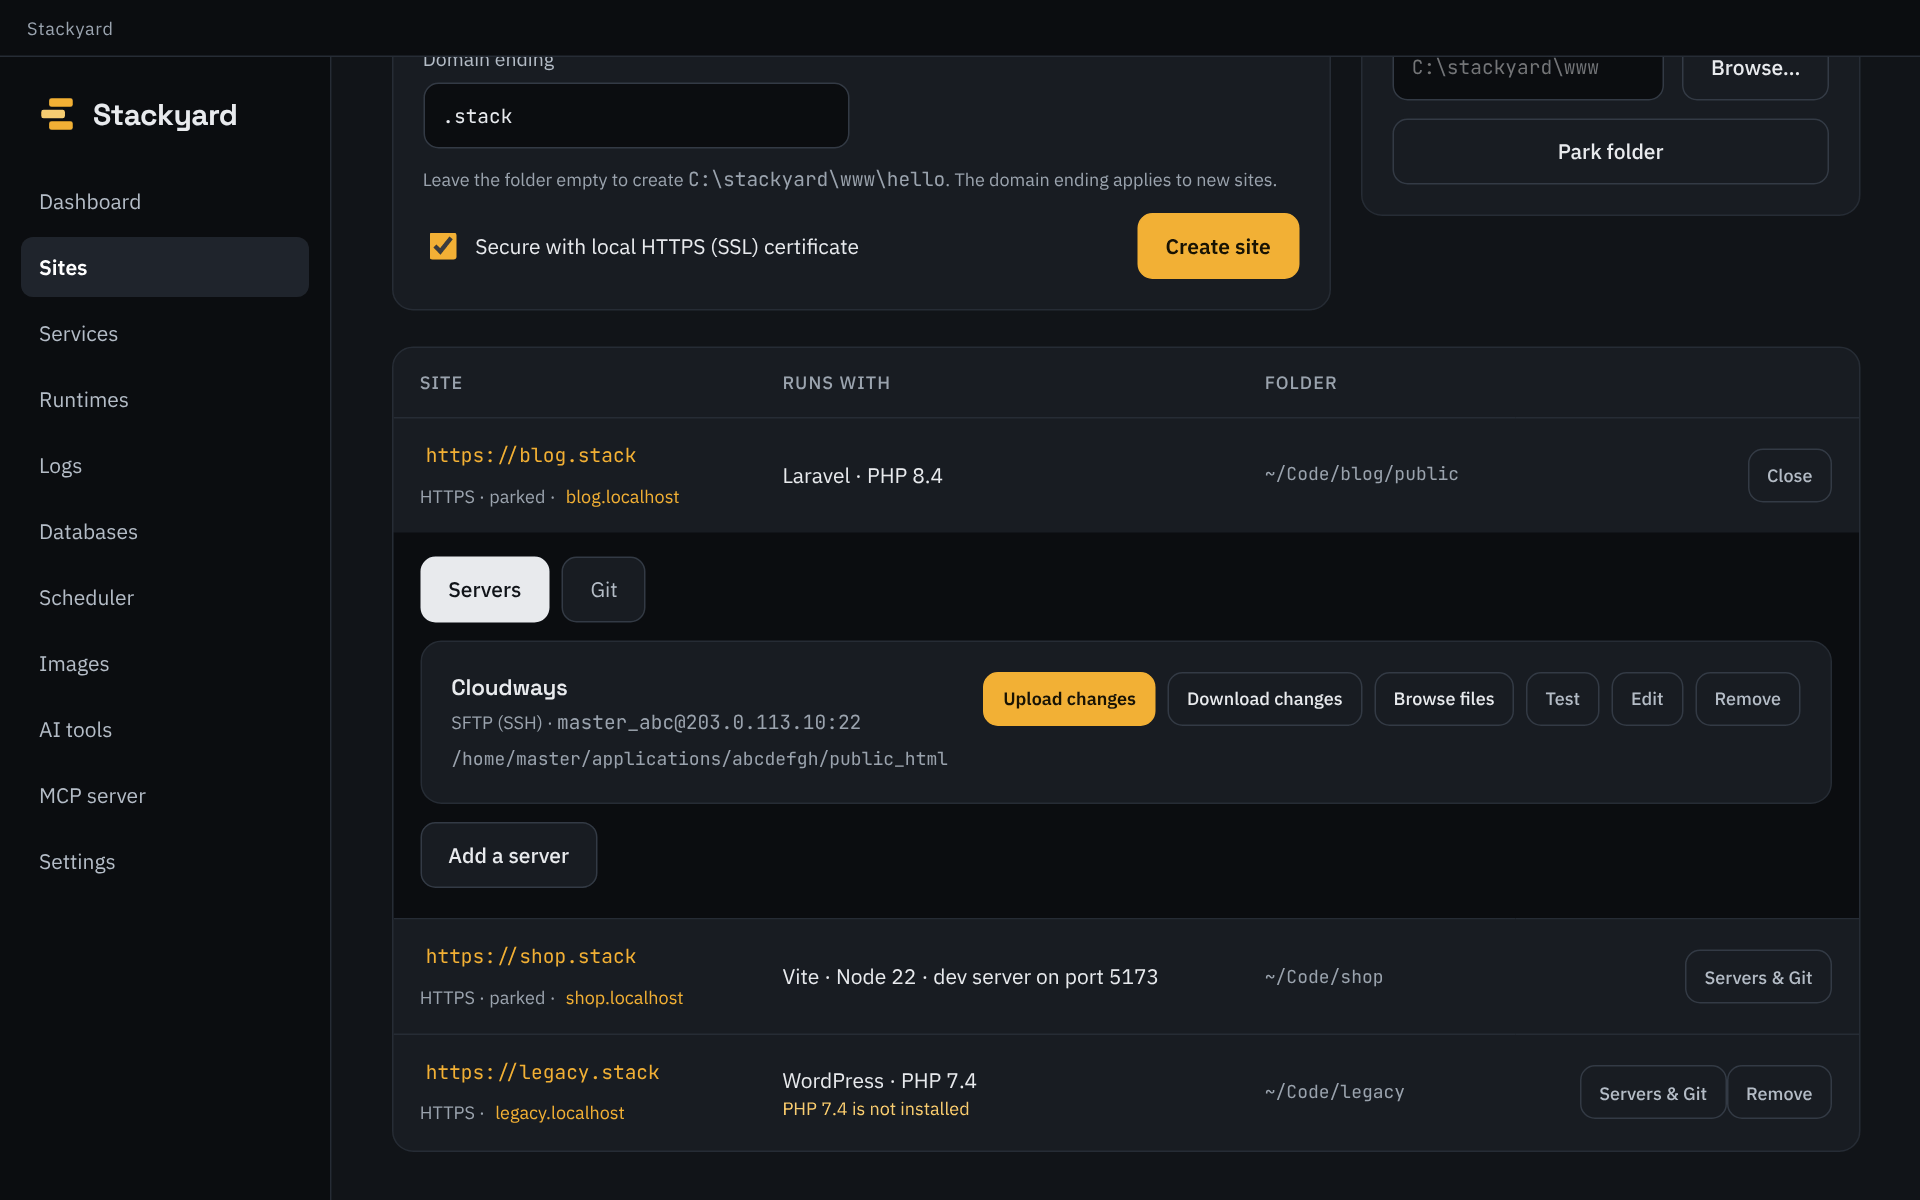
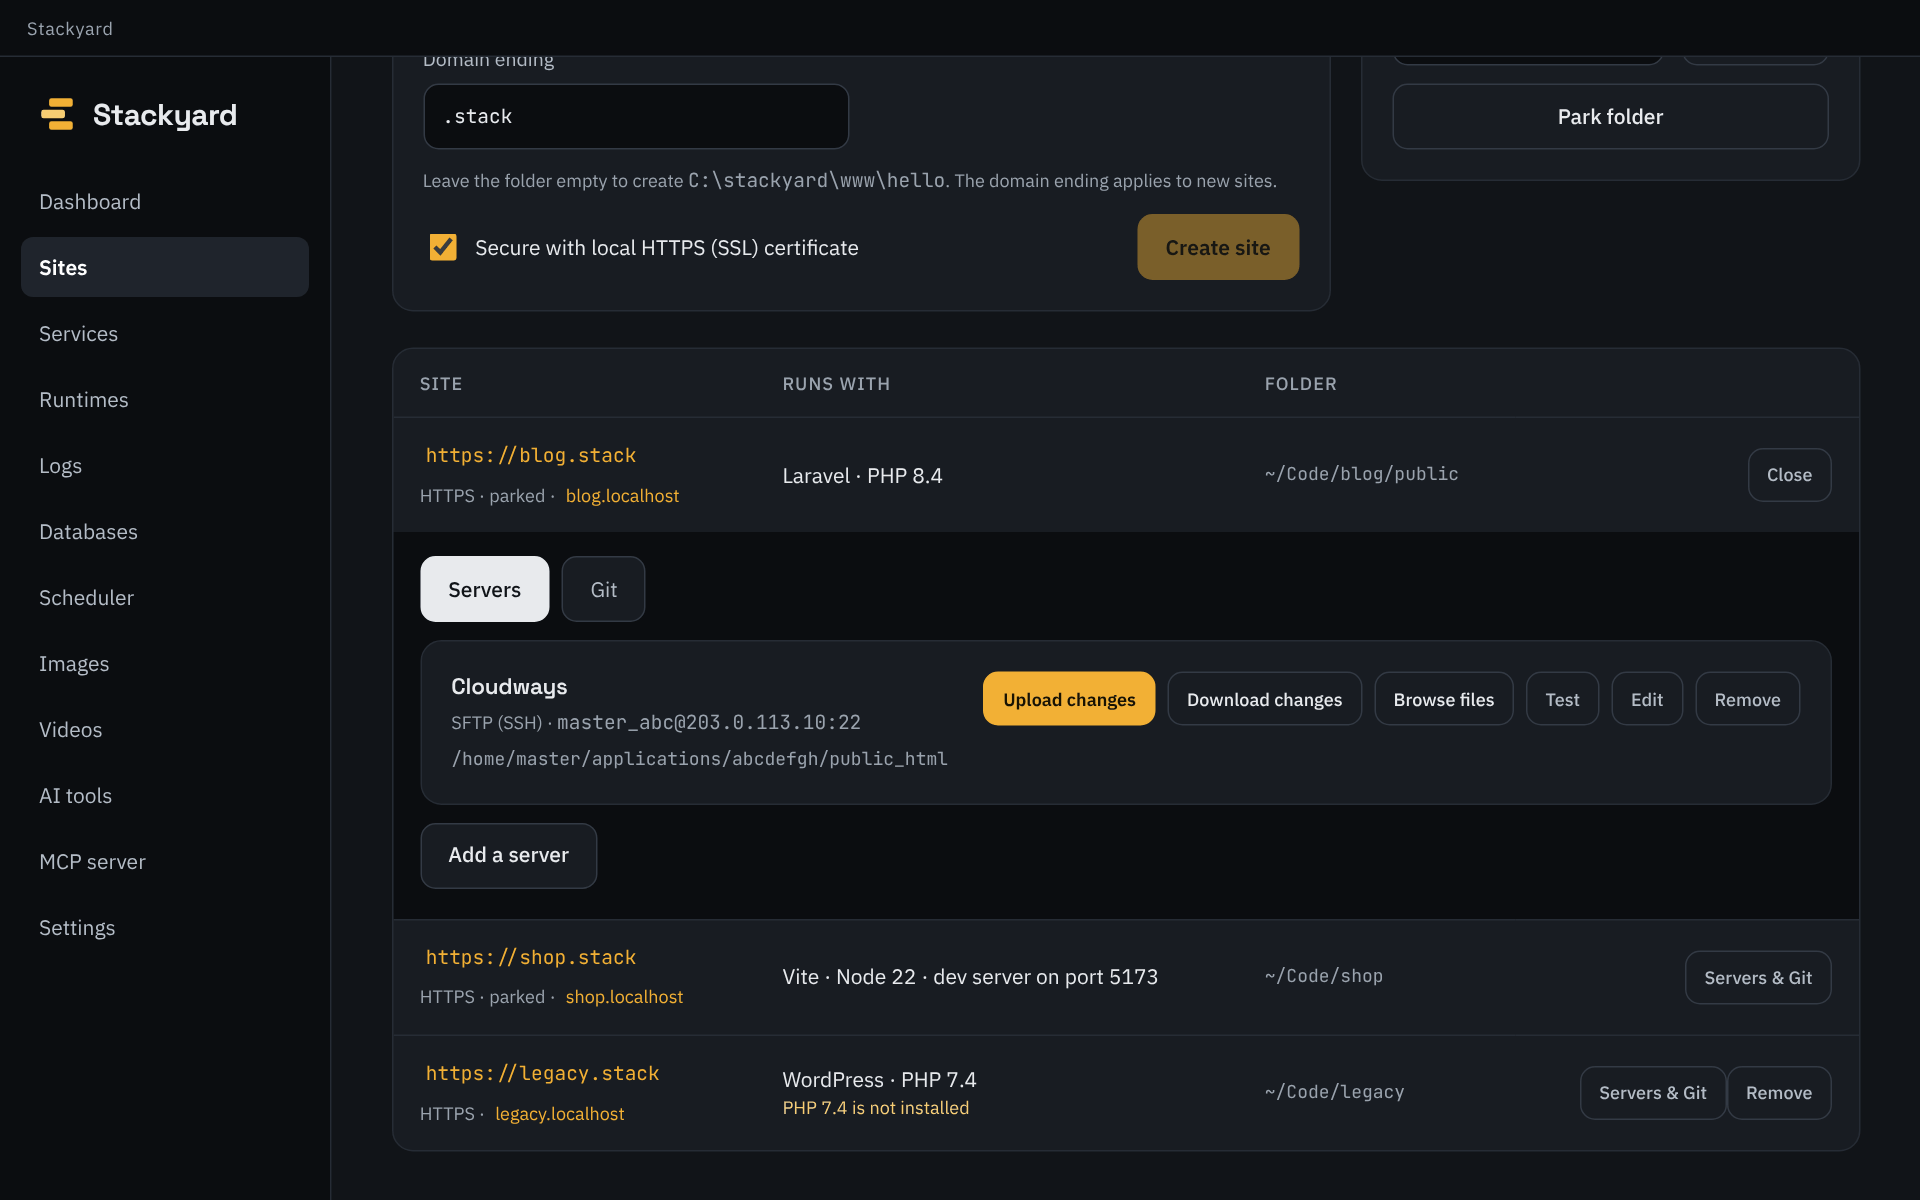
Retake the screenshots after the Images, Logs and Servers changes; add Videos

diff --git a/site/index.html b/site/index.html
@@ -141,6 +141,7 @@
       <button role="tab" aria-selected="false" data-shot="databases">Databases</button>
       <button role="tab" aria-selected="false" data-shot="logs">Logs</button>
       <button role="tab" aria-selected="false" data-shot="images">Images</button>
+      <button role="tab" aria-selected="false" data-shot="videos">Videos</button>
       <button role="tab" aria-selected="false" data-shot="settings">Settings</button>
     </div>
     <figure class="shot">

diff --git a/site/app.js b/site/app.js
@@ -67,6 +67,7 @@
     databases: "Databases screen listing a database's tables",
     logs: "Logs screen with warnings and errors highlighted",
     images: "Image optimizer making WebP and AVIF copies of images",
+    videos: "Video optimizer making MP4, WebM and GIF copies of videos",
     settings: "Settings screen with updates, local domains and modules you can switch off"
   };
   document.querySelectorAll(".tabs button").forEach(function (b) {

diff --git a/README.md b/README.md
@@ -167,7 +167,11 @@ stackyard use php 8.3                  # pin a version for the current project
 </tr>
 <tr>
 <td><img src="docs/images/images.png" alt="Image optimizer making WebP and AVIF copies of images"></td>
+<td><img src="docs/images/videos.png" alt="Video optimizer making MP4, WebM and GIF copies of videos"></td>
+</tr>
+<tr>
 <td><img src="docs/images/settings.png" alt="Settings screen with updates, local domains and modules you can switch off"></td>
+<td></td>
 </tr>
 </table>
 
